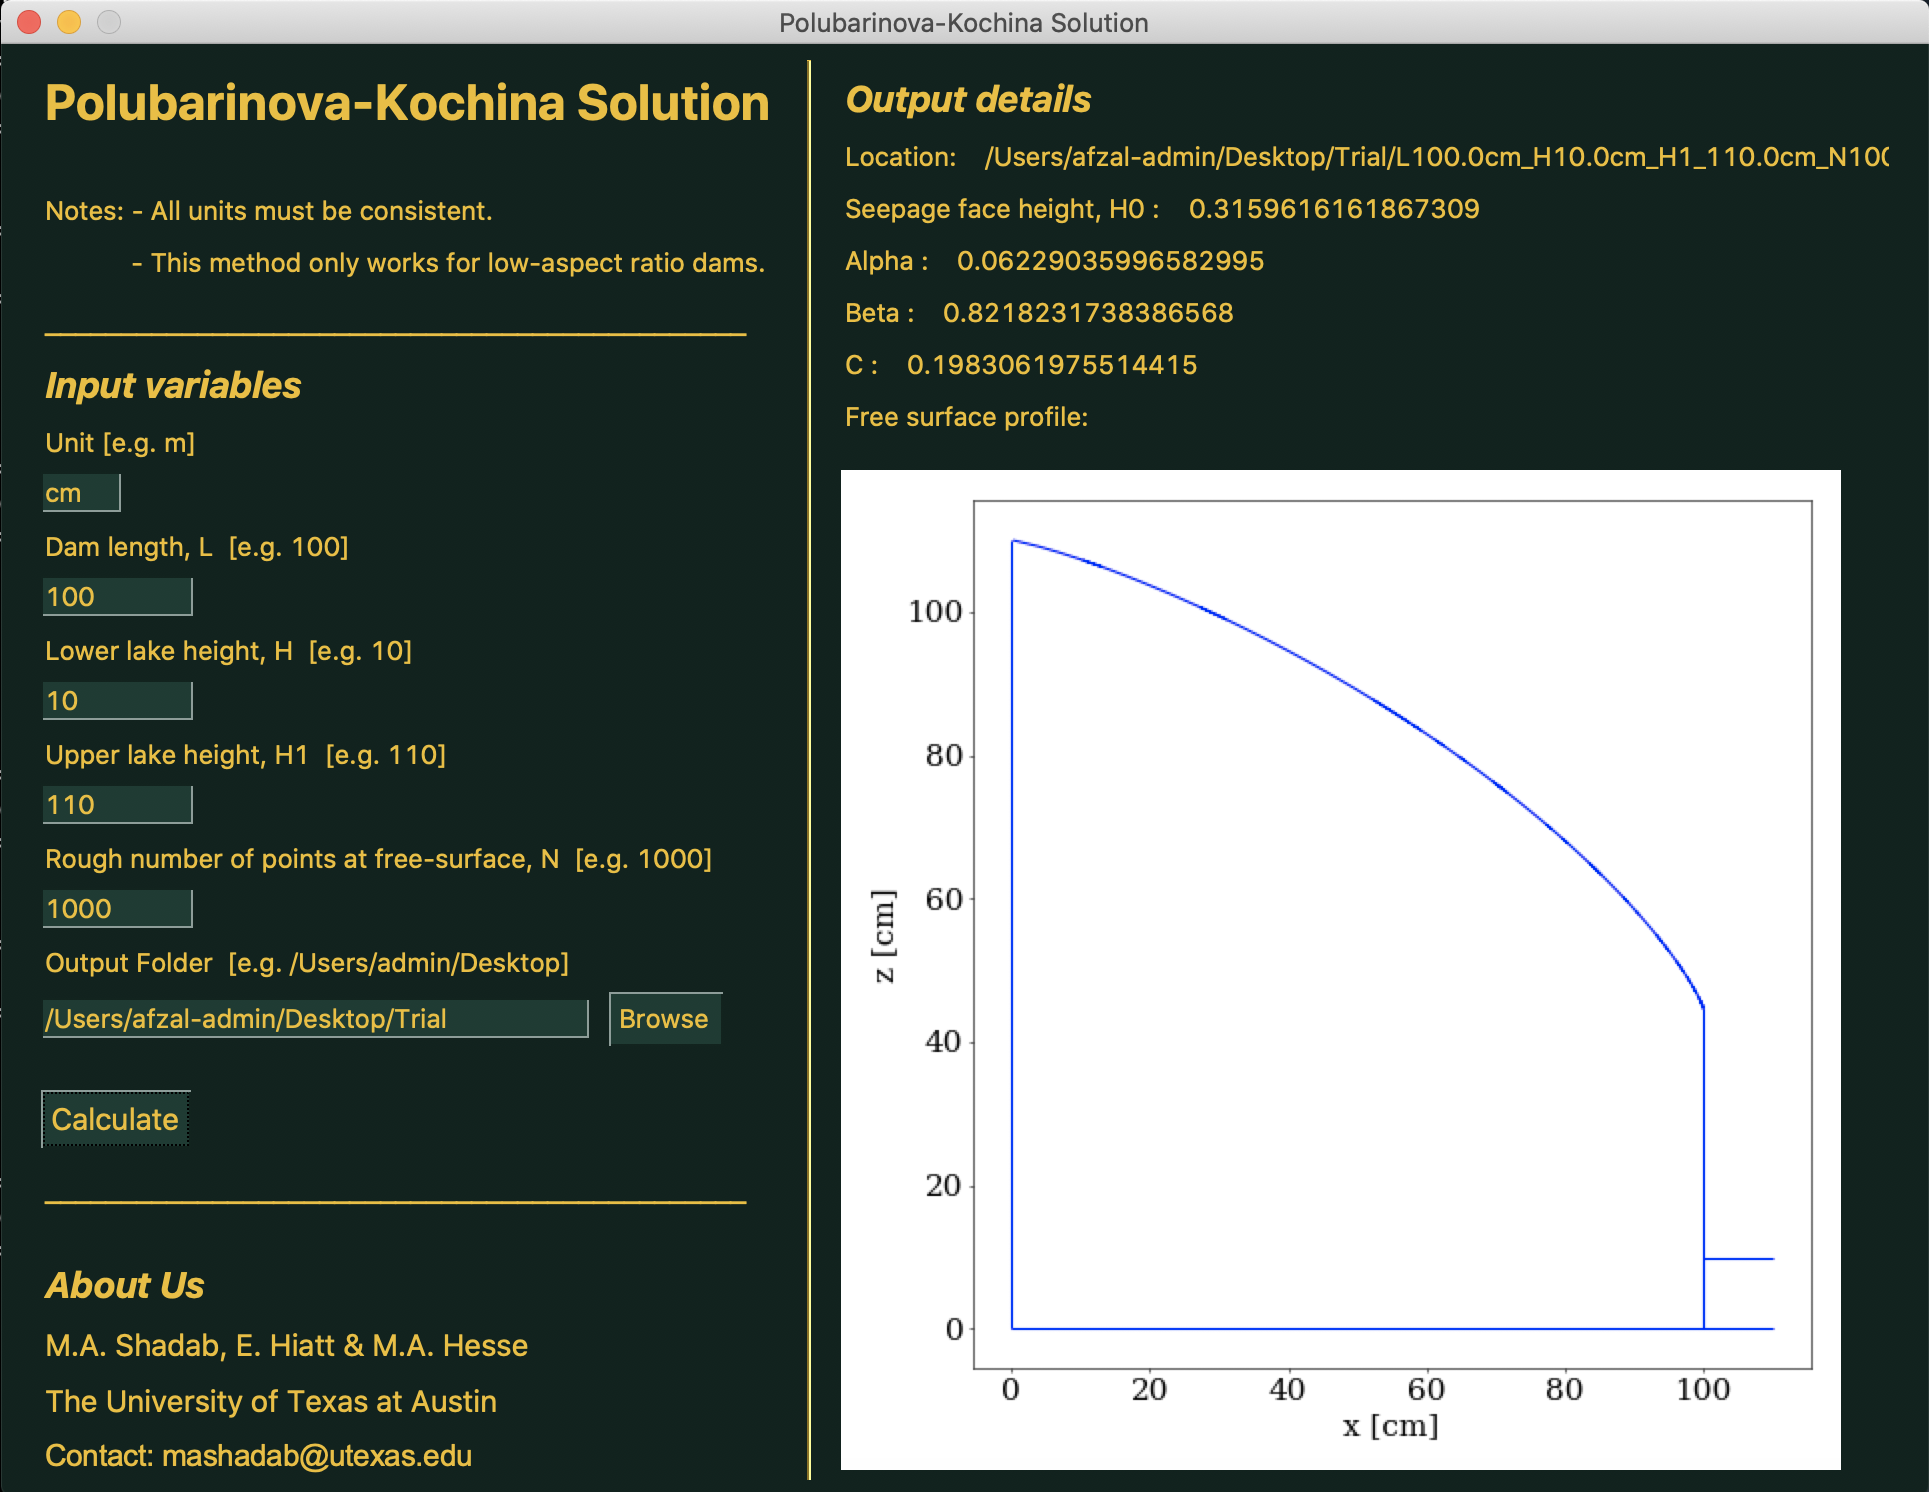
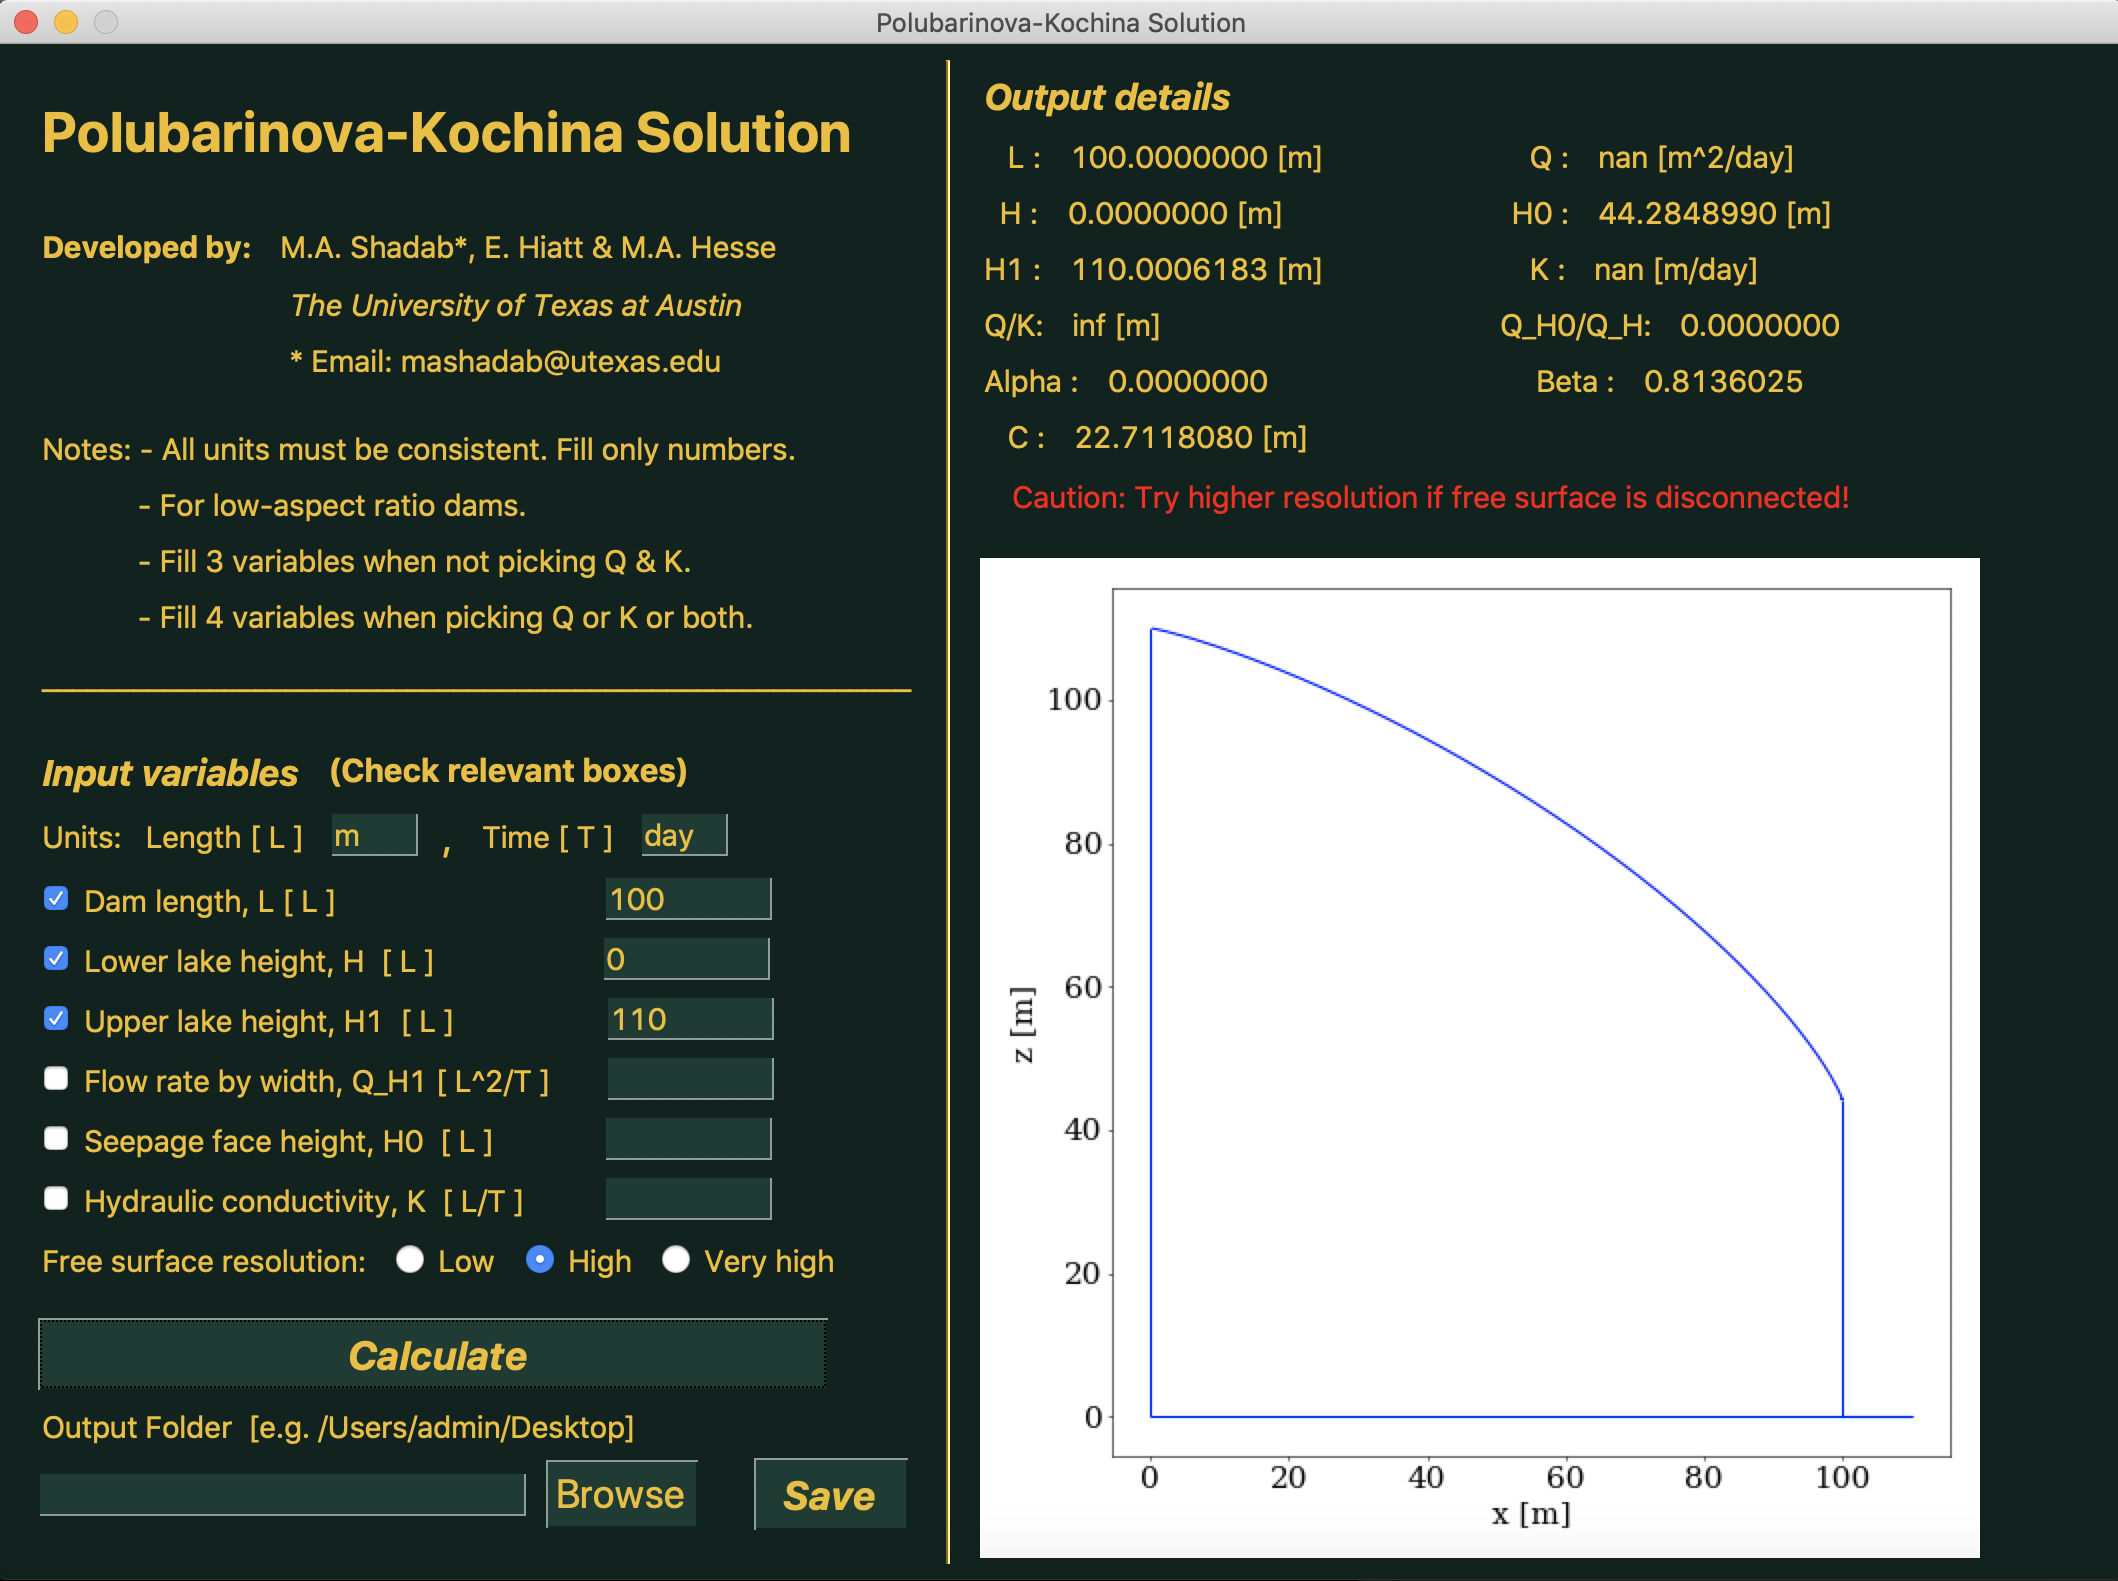
Working code v1.0

diff --git a/Pbk_main_function_latest.py b/Pbk_main_function_latest.py
@@ -448,15 +448,13 @@ def PbK_solution_full(H0,H_full,L_full,H1,n,output_folder,Q,K,unit,Tunit):
     
     xz_array = xz_array[p,:]
     
-    
-    
     fig = figure(figsize=(6,6) , dpi=100)
     ax = fig.add_subplot(111)
     ax.plot(xz_array[:,0],xz_array[:,1],'b-')
-    ax.vlines(0,0,H_scale*H1_func(H,res.x[0],res.x[1],res.x[2]),colors='blue') 
-    ax.vlines(H_scale*L,0,H_scale*H+H_scale*H0_func(res.x[0],res.x[1],res.x[2]),colors='blue')  
-    ax.vlines(H_scale*L,0,H_scale*H,colors='blue') 
-    ax.hlines(H_scale*H,H_scale*L,H_scale*1.1*L,colors='blue')   
+    ax.vlines(0,0,H_scale*H1_func(H_func(res.x[0],res.x[1],res.x[2]),res.x[0],res.x[1],res.x[2]),colors='blue') 
+    ax.vlines(H_scale*L,0,H_scale*H_func(res.x[0],res.x[1],res.x[2])+H_scale*H0_func(res.x[0],res.x[1],res.x[2]),colors='blue')  
+    ax.vlines(H_scale*L,0,H_scale*H_func(res.x[0],res.x[1],res.x[2]),colors='blue') 
+    ax.hlines(H_scale*H_func(res.x[0],res.x[1],res.x[2]),H_scale*L,H_scale*1.1*L,colors='blue')   
     ax.hlines(0,0,H_scale*1.1*L,colors='blue')   
     ax.set_xlabel(f'x [{unit}]')
     ax.set_ylabel(f'z [{unit}]')
@@ -479,10 +477,10 @@ def PbK_solution_full(H0,H_full,L_full,H1,n,output_folder,Q,K,unit,Tunit):
     fig = figure(figsize=(10,10), dpi=50)
     ax = fig.add_subplot(111)
     ax.plot(xz_array[:,0],xz_array[:,1],'b-')
-    ax.vlines(0,0,H_scale,colors='blue') 
-    ax.vlines(H_scale*L,0,H_scale*H+H_scale*H0_func(res.x[0],res.x[1],res.x[2]),colors='blue')  
-    ax.vlines(H_scale*L,0,H_scale*H,colors='blue') 
-    ax.hlines(H_scale*H,H_scale*L,H_scale*1.1*L,colors='blue')   
+    ax.vlines(0,0,H_scale*H1_func(H_func(res.x[0],res.x[1],res.x[2]),res.x[0],res.x[1],res.x[2]),colors='blue') 
+    ax.vlines(H_scale*L,0,H_scale*H_func(res.x[0],res.x[1],res.x[2])+H_scale*H0_func(res.x[0],res.x[1],res.x[2]),colors='blue')  
+    ax.vlines(H_scale*L,0,H_scale*H_func(res.x[0],res.x[1],res.x[2]),colors='blue') 
+    ax.hlines(H_scale*H_func(res.x[0],res.x[1],res.x[2]),H_scale*L,H_scale*1.1*L,colors='blue')   
     ax.hlines(0,0,H_scale*1.1*L,colors='blue')   
     ax.set_xlabel(f'x [{unit}]')
     ax.set_ylabel(f'z [{unit}]')

diff --git a/Pbk_GUI_latest.py b/Pbk_GUI_latest.py
@@ -106,9 +106,9 @@ while True:
         if values['-CheckLowRes-'] == True:
             N = 100
         elif values['-CheckHighRes-'] == True: 
-            N = 1000
+            N = 2000
         else:
-            N = 5000
+            N = 50000
             
         if values['-U-'] == '':
             unit = 'L'
@@ -193,7 +193,7 @@ while True:
         if L/H1_input>=3.5 or (H1_input**2-H**2)/L**2<0.1:
         
             if res[0]<1e-3 and res[1]>1-1e-3:
-                if not N ==5000:
+                if not N ==50000:
                     '''
                     filename = f"Error: The aspect ratio is high!"
                     window['-OUTPUT10-'].update(filename,font = ("Serif", 20),text_color='Red')
@@ -208,7 +208,7 @@ while True:
                 window['-OUTPUT10-'].update(filename,font = ("Serif", 20),text_color='Red')
             
         else:
-            if not N ==5000:
+            if not N ==50000:
                 filename = f"Caution: Try higher resolution if free surface is disconnected!"
                 window['-OUTPUT10-'].update(filename,font = ("Serif", 15),text_color='Red')
                
